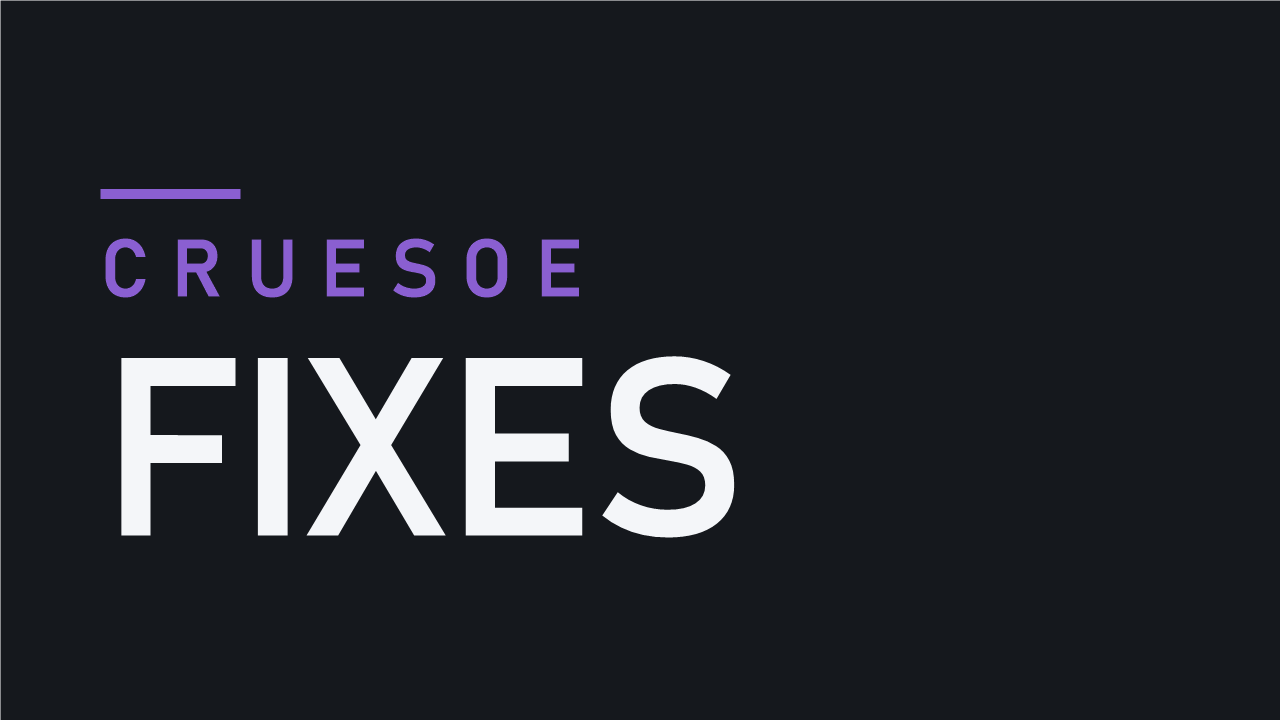
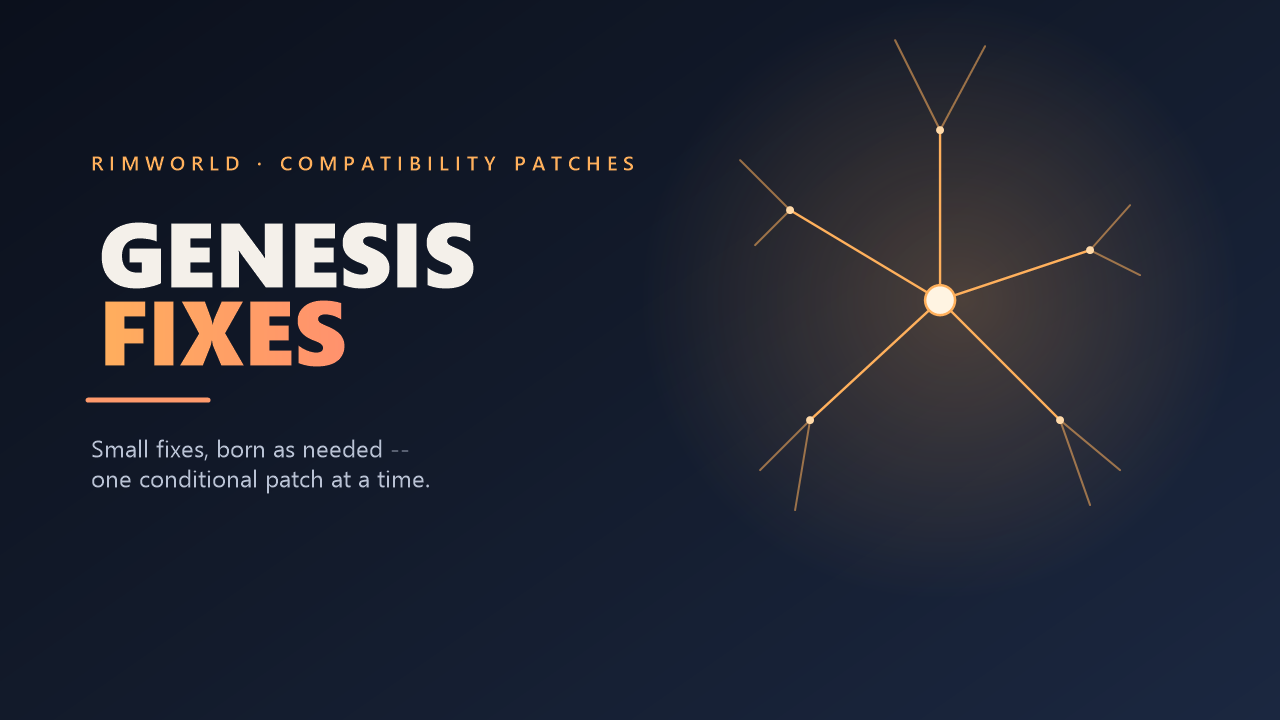
Rename mod to Genesis Fixes
Renames the mod's identity end to end: display name, packageId
(cruesoe.temp.fixes -> cruesoe.genesisfixes), assembly/namespace
(CruesoesFixes -> GenesisFixes), Harmony instance ID, and the
modkit.json/workshopFolder metadata. Also ships new branding: a
rewritten description tagline and a new 1280x720 Preview.png.

diff --git a/Source/KnownErrorFilter.cs b/Source/KnownErrorFilter.cs
@@ -1,12 +1,12 @@
 using HarmonyLib;
 using Verse;
 
-namespace CruesoesFixes
+namespace GenesisFixes
 {
     /// <summary>
     /// Better Architect Menu ships a compatibility patch (Mods and Shit\Combat Extended
     /// Guns\Patches\combat extended guns.xml) that replaces CE_Artillery_Howitzer's
-    /// designationCategory, and Cruesoe's Fixes ships an equivalent copy (see
+    /// designationCategory, and Genesis Fixes ships an equivalent copy (see
     /// Mods/Combat Extended Guns/Patches/combat extended guns.xml) so the change lands even
     /// if BAM's own copy misfires. In this modlist the underlying xpath lookup for that one
     /// field is intermittently and nondeterministically flaky - on any given launch it can be
@@ -37,6 +37,13 @@ namespace CruesoesFixes
     /// https://github.com/fernyrepos/Progression-Production/pull/5; this suppression can be
     /// dropped once that merges and the fixed version ships.
     ///
+    /// Progression: Arsenal's VFE Security compatibility file is loaded whenever VFE
+    /// Security is active, but two operations in that file unconditionally relabel
+    /// VWE_TrenchWarfare. That research project belongs to the separately optional
+    /// Vanilla Weapons Expanded mod, so both operations harmlessly fail when VWE is not
+    /// active. Match only those two PatchOperationReplace errors; other references to the
+    /// missing research project remain visible if they ever cause a real error.
+    ///
     /// This has to be a Mod subclass, not a [StaticConstructorOnStartup] static class:
     /// LoadedModManager.ApplyPatches (where the error is thrown) runs during
     /// LoadedModManager.CreateModClasses, well before StaticConstructorOnStartupUtility fires,
@@ -46,7 +53,7 @@ namespace CruesoesFixes
     {
         public KnownErrorFilterMod(ModContentPack content) : base(content)
         {
-            var harmony = new Harmony("crues.cruesoesfixes.knownerrorfilter");
+            var harmony = new Harmony("cruesoe.genesisfixes.knownerrorfilter");
             harmony.Patch(
                 AccessTools.Method(typeof(Log), nameof(Log.Error), new[] { typeof(string) }),
                 prefix: new HarmonyMethod(typeof(KnownErrorFilterMod), nameof(SuppressKnownBenignError)));
@@ -58,6 +65,8 @@ namespace CruesoesFixes
             if (text.Contains("CE_Artillery_Howitzer") && text.Contains("designationCategory")) return false;
             if (text.Contains("moas_CookStick") && text.Contains("recipeUsers") && text.Contains("Campfire")) return false;
             if (text.Contains("VFE_Manufacturing") && text.Contains("ThingDef")) return false;
+            if (text.Contains("PatchOperationReplace") && text.Contains("VWE_TrenchWarfare") &&
+                (text.Contains("/label") || text.Contains("/description"))) return false;
             return true;
         }
     }
